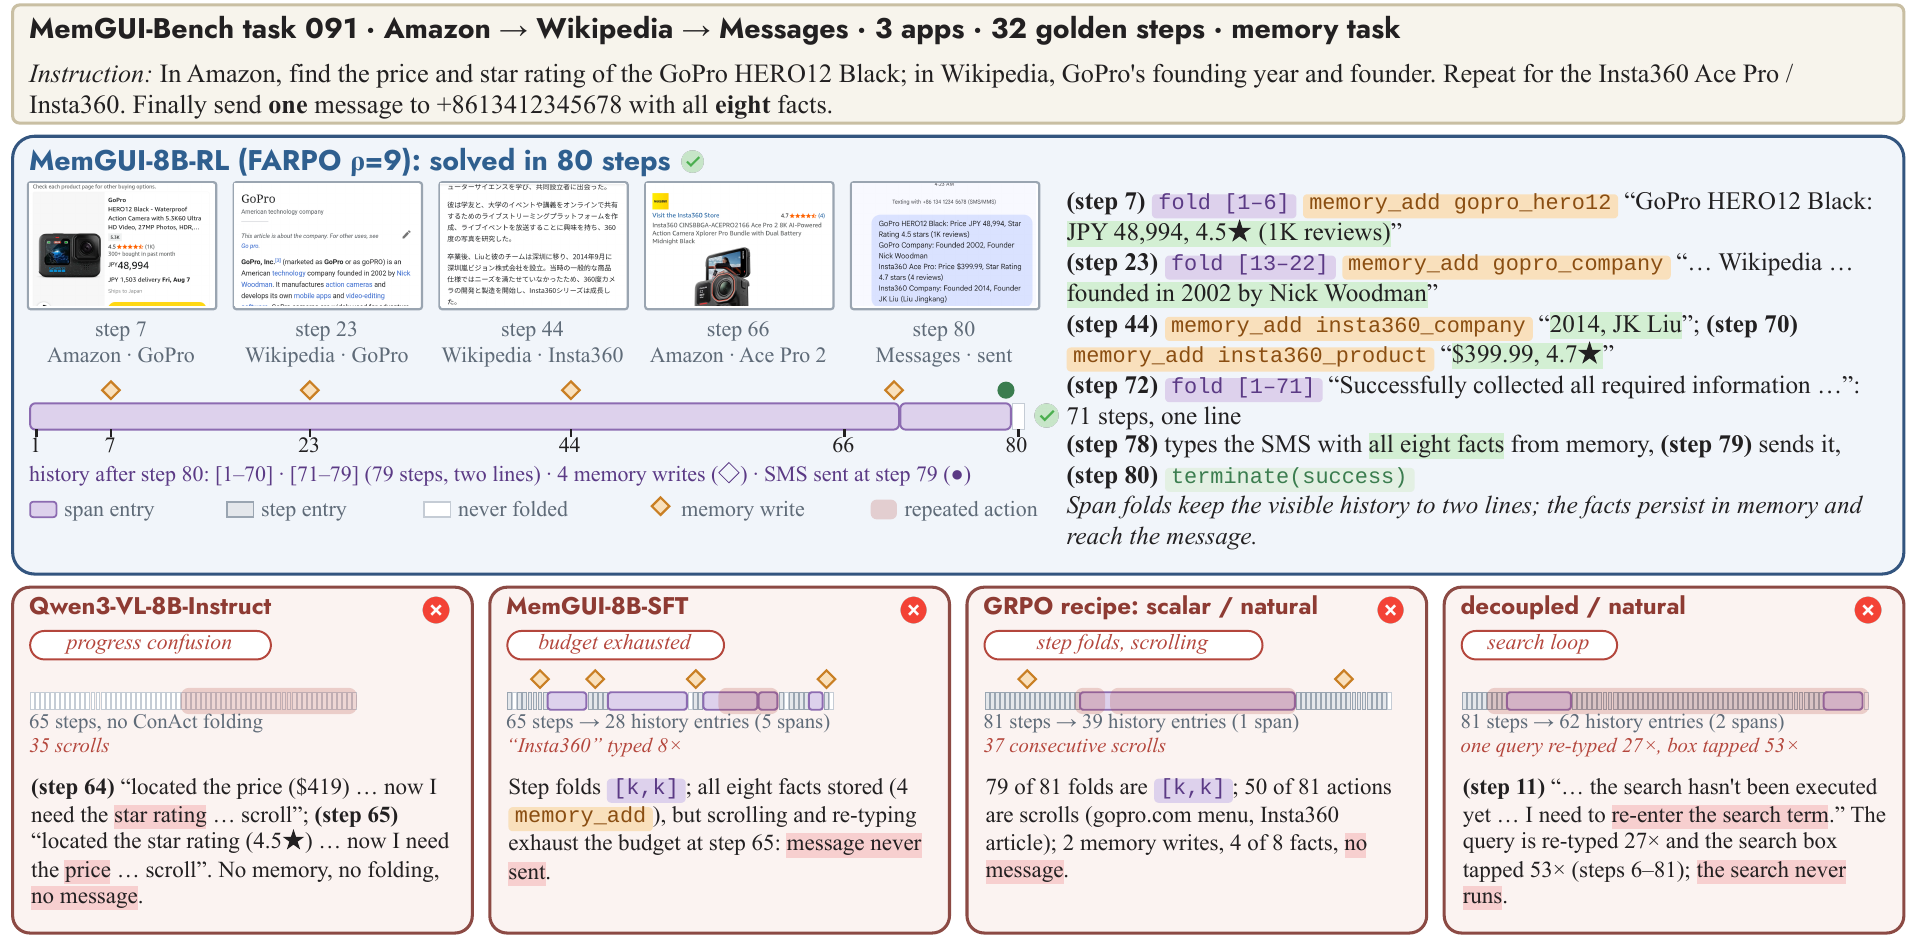
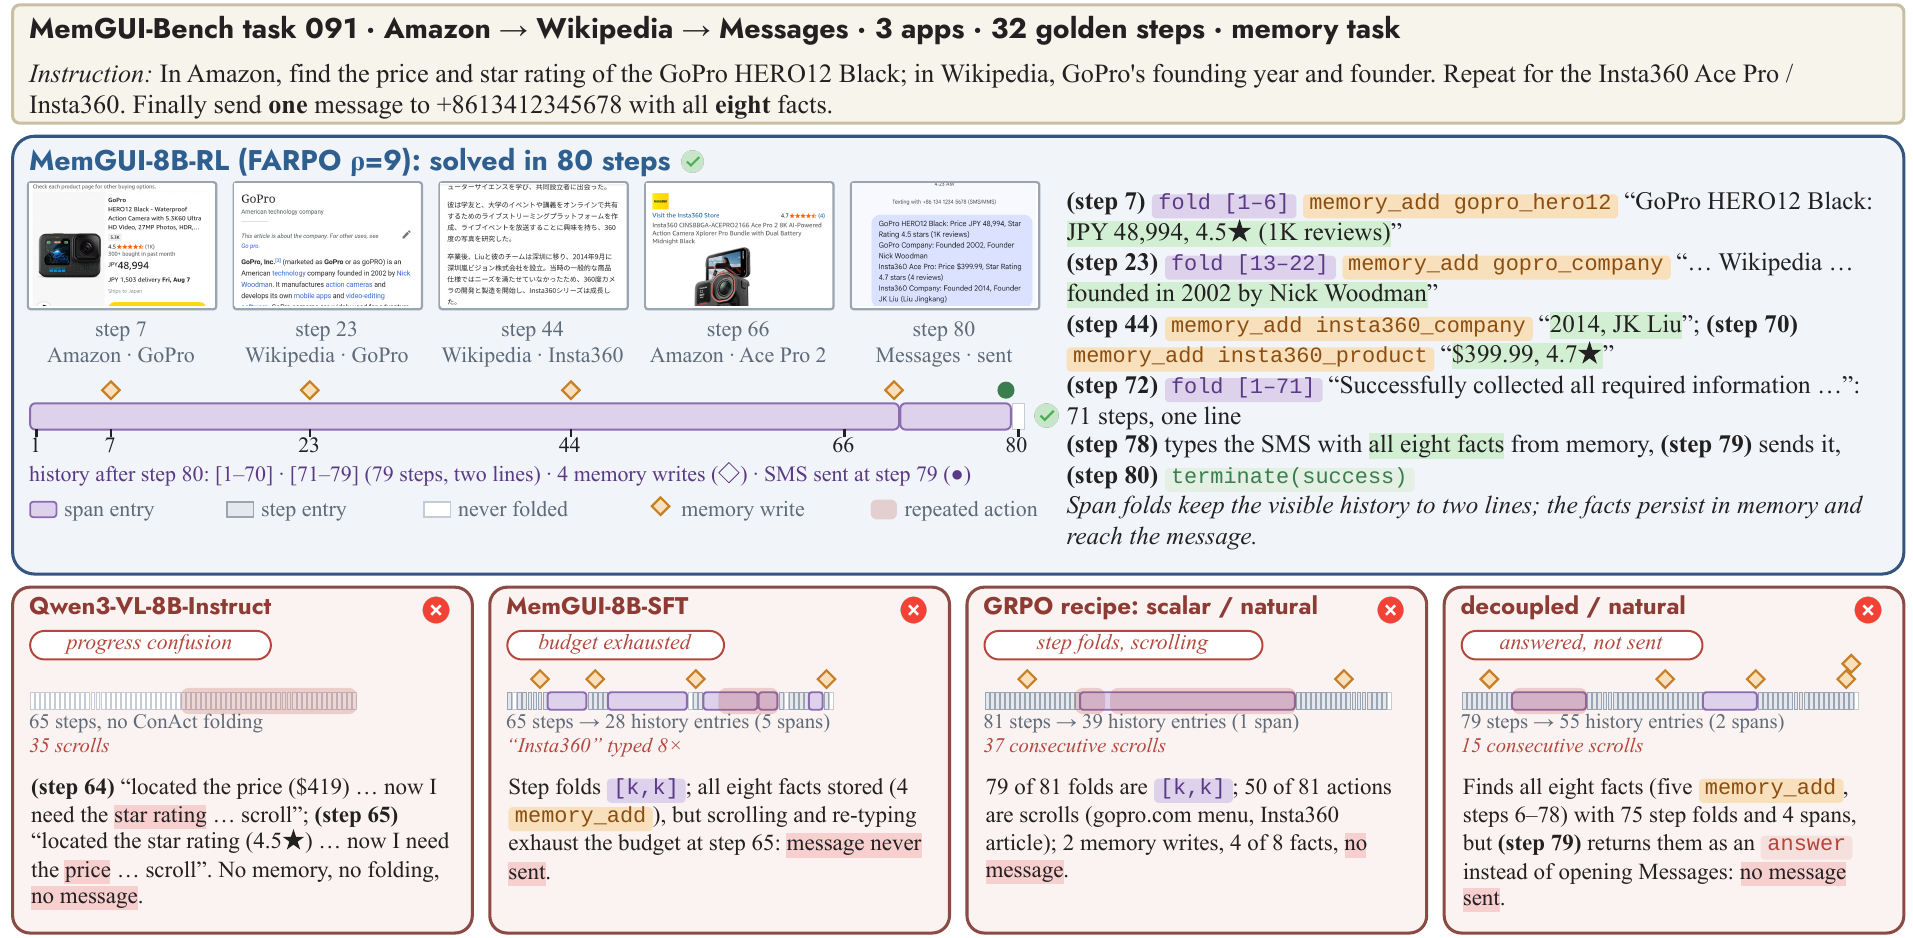
Ablation as a ladder: GRPO recipe, + reward decoupling, + folding-aware sampling; refreshed figures and case caption

Changed region(s): [[0.771, 0.6802, 0.9869, 0.9584]]

diff --git a/index.html b/index.html
@@ -113,12 +113,11 @@
             MobileWorld data in training.</p>
         </div>
         <figure class="paper-figure results-figure">
-          <img src="assets/paper/main-performance.png" alt="Main results of MemGUI-8B-RL on MemGUI-Bench and MobileWorld, and the 2x2 ablation">
+          <img src="assets/paper/main-performance.png" alt="Main results of MemGUI-8B-RL on MemGUI-Bench and MobileWorld, and the stepwise ablation">
           <figcaption><strong>Main results.</strong> (a) MemGUI-Bench Pass@3 against end-to-end models up to 32B and
-            the backbone. (b) MobileWorld GUI-only success among open-data models. (c) The 2&times;2 ablation from the same
-            SFT checkpoint, 100 steps each: reward decoupling alone or folding-aware sampling alone recovers part of the
-            gain, both together give +9.3 Pass@3 over the GRPO recipe. <sup>&dagger;</sup>The two single-mechanism cells
-            are provisional; their re-evaluation is in progress.</figcaption>
+            the backbone. (b) MobileWorld GUI-only success among open-data models. (c) The two mechanisms added one at a
+            time from the same SFT checkpoint, 100 steps each: the GRPO recipe, then reward decoupling, then folding-aware
+            sampling; each step improves on the last, +9.3 Pass@3 and +5 MobileWorld tasks over the recipe in total.</figcaption>
         </figure>
         <div class="results-row">
           <div class="results-table-card">
@@ -130,8 +129,9 @@
               <tbody>
                 <tr><td>Qwen3-VL-8B-Instruct (backbone)</td><td>9.4</td><td>20.3</td><td>15.1</td><td>11 / 117 &middot; 9.4%</td></tr>
                 <tr><td>MemGUI-8B-SFT (RL start)</td><td>23.4</td><td>35.9</td><td>30.2</td><td>21 / 117 &middot; 17.9%</td></tr>
-                <tr><td>&nbsp;&nbsp;+ GRPO recipe (scalar advantage, natural corpus)</td><td>23.4</td><td>39.1</td><td>35.7</td><td>18 / 117 &middot; 15.4%</td></tr>
-                <tr class="ours"><td>&nbsp;&nbsp;+ FARPO, &rho;&nbsp;=&nbsp;9 (MemGUI-8B-RL)</td><td>30.5</td><td>48.4</td><td>39.0</td><td>23 / 117 &middot; 19.7%</td></tr>
+                <tr><td>&nbsp;&nbsp;GRPO recipe (scalar advantage, natural corpus)</td><td>23.4</td><td>39.1</td><td>35.7</td><td>18 / 117 &middot; 15.4%</td></tr>
+                <tr><td>&nbsp;&nbsp;+ reward decoupling</td><td>29.7</td><td>45.3</td><td>38.5</td><td>20 / 117 &middot; 17.1%</td></tr>
+                <tr class="ours"><td>&nbsp;&nbsp;+ folding-aware sampling, &rho;&nbsp;=&nbsp;9 (= FARPO, MemGUI-8B-RL)</td><td>30.5</td><td>48.4</td><td>39.0</td><td>23 / 117 &middot; 19.7%</td></tr>
                 <tr class="ref"><td>Qwen3-VL-235B-Thinking (reported)</td><td>24.2</td><td>46.9</td><td>30.0</td><td>14.5%</td></tr>
               </tbody>
             </table>
@@ -187,13 +187,14 @@
         </figure>
         <div class="feature-grid">
           <article>
-            <img src="assets/paper/ablation-dynamics.png" alt="Training dynamics of the 2x2 ablation">
+            <img src="assets/paper/ablation-dynamics.png" alt="Training dynamics of the stepwise ablation">
             <h3>Reward-decoupled group advantages</h3>
             <p>Each verifier component is centred and scaled within its prompt group, gated when its group variance is
               zero, and only then weighted (w&nbsp;=&nbsp;0.1 / 0.4 / 0.4 / 0.1 for format, type, parameters, folding).
               A one-standard-deviation change in any component moves the advantage by the same amount, which the
-              scalar recipe does not guarantee. In the 2&times;2 ablation the scalar estimator on the &rho;&nbsp;=&nbsp;9 corpus raises the
-              folding reward fastest while its memory-trigger F1 lags behind FARPO's.</p>
+              scalar recipe does not guarantee. Added to the GRPO recipe on the same natural corpus, it gives +6.2 Pass@3
+              and +2.8 IRR, and memory-argument match on the held-out states rises stepwise along the ladder
+              (63.1 &rarr; 72.3 &rarr; 74.7 &rarr; 75.9).</p>
           </article>
           <article>
             <img src="assets/paper/folding-exposure.png" alt="Deep-fold rate over training and the development sweep over the ratio rho">
@@ -225,9 +226,10 @@
           <figcaption>Qwen3-VL-8B-Instruct alternates between "now I need the rating" and "now I need the price" for 35
             scrolls, keeps no memory and sends no message. MemGUI-8B-SFT stores all eight facts
             but folds one step at a time and runs out of budget at step 65; the GRPO recipe spends 50 of 81 actions
-            scrolling and stores four facts. Reward decoupling without folding-aware sampling re-types one query 27 times
-            and never runs the search. MemGUI-8B-RL closes each sub-task with a span fold, stores the facts as four memory
-            entries, ends its 80 steps with a two-line history and sends the message.</figcaption>
+            scrolling and stores four facts. Reward decoupling without folding-aware sampling collects all eight facts into
+            five memory entries but returns them as an answer instead of sending the message. MemGUI-8B-RL closes each
+            sub-task with a span fold, stores the facts as four memory entries, ends its 80 steps with a two-line history
+            and sends the message.</figcaption>
         </figure>
       </div>
     </section>
